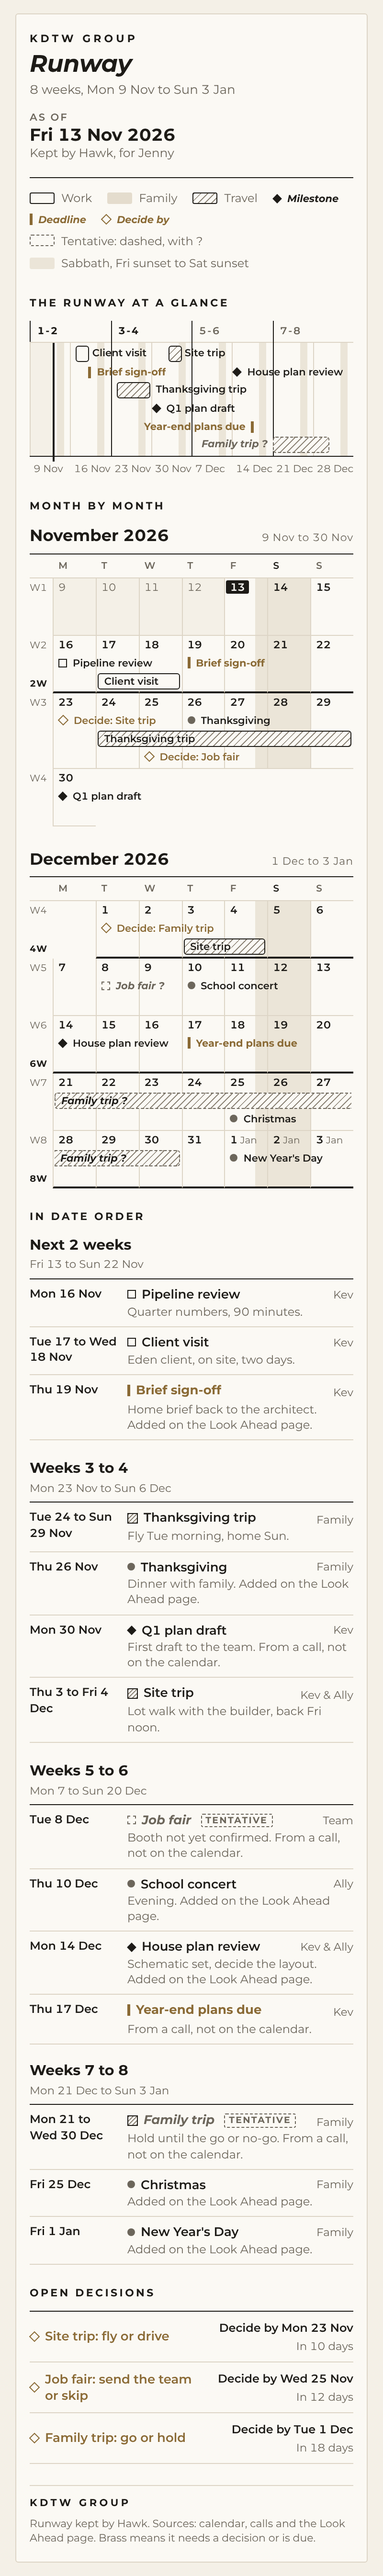
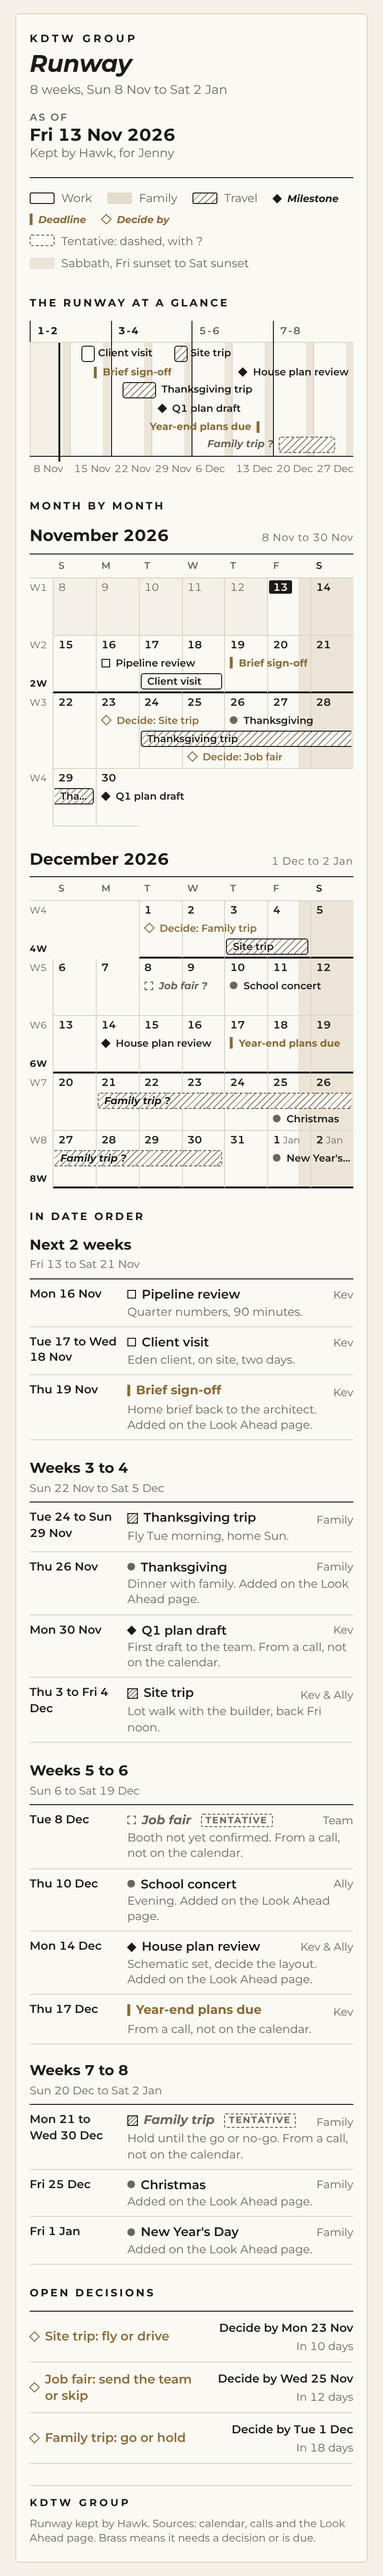
Runway block: weeks run Sunday to Saturday (startSunday)
Claude-Session: https://claude.ai/code/session_01UNAvYp5G2XyvdSerJe3A4p

diff --git a/projects/lookahead/runway-block/runway.html b/projects/lookahead/runway-block/runway.html
@@ -87,7 +87,7 @@ section > h2 { margin: 0 0 10px; font-size: 11px; font-weight: 700; letter-spaci
 .zone.later { color: var(--muted); font-weight: 600 }
 .track { position: relative; border-top: 1px solid var(--rule); border-bottom: 1px solid var(--ink) }
 .track .day { position: absolute; top: 0; bottom: 0 }
-.track .day.mon { border-left: 1px solid var(--rule) }
+.track .day.wk { border-left: 1px solid var(--rule) }
 .track .day.sab { background: var(--rest) }
 .track .day.fri { background: linear-gradient(90deg, transparent 72%, var(--rest) 72%) }
 .track .day.past { background: var(--bg) }
@@ -225,8 +225,8 @@ footer b { color: var(--ink); letter-spacing: .26em; font-size: 10.5px }
   "asOf": "2026-11-13",
   "owner": "Hawk, for Jenny",
   "weeks": 8,
-  "startMonday": "2026-11-09",
-  "horizons": { "w2": "2026-11-22", "w4": "2026-12-06", "w6": "2026-12-20" },
+  "startSunday": "2026-11-08",
+  "horizons": { "w2": "2026-11-21", "w4": "2026-12-05", "w6": "2026-12-19" },
   "events": [
     { "id": "pipeline-review", "title": "Pipeline review", "start": "2026-11-16", "kind": "work", "status": "confirmed", "who": "Kev", "note": "Quarter numbers, 90 minutes", "source": "calendar" },
     { "id": "client-visit", "title": "Client visit", "start": "2026-11-17", "end": "2026-11-18", "kind": "work", "status": "confirmed", "who": "Kev", "note": "Eden client, on site, two days", "source": "calendar" },
@@ -257,7 +257,7 @@ footer b { color: var(--ink); letter-spacing: .26em; font-size: 10.5px }
 (function () {
   "use strict";
   var DAY = 864e5;
-  var DOW = ["Mon", "Tue", "Wed", "Thu", "Fri", "Sat", "Sun"];
+  var DOW = ["Sun", "Mon", "Tue", "Wed", "Thu", "Fri", "Sat"];
   var MON = ["Jan", "Feb", "Mar", "Apr", "May", "Jun", "Jul", "Aug", "Sep", "Oct", "Nov", "Dec"];
   var MONTH = ["January", "February", "March", "April", "May", "June", "July", "August", "September", "October", "November", "December"];
   var KINDS = { work: 1, family: 1, travel: 1, milestone: 1, deadline: 1 };
@@ -265,7 +265,7 @@ footer b { color: var(--ink); letter-spacing: .26em; font-size: 10.5px }
 
   function dn(s) { var m = /^(\d{4})-(\d{2})-(\d{2})$/.exec(String(s || "").trim()); return m ? Date.UTC(+m[1], +m[2] - 1, +m[3]) / DAY : NaN; }
   function D(n) { return new Date(n * DAY); }
-  function wd(n) { return (D(n).getUTCDay() + 6) % 7; }
+  function wd(n) { return D(n).getUTCDay(); } // Sunday = 0: weeks run Sunday to Saturday
   function md(n) { return D(n).getUTCDate(); }
   function mo(n) { return D(n).getUTCMonth(); }
   function yr(n) { return D(n).getUTCFullYear(); }
@@ -285,7 +285,9 @@ footer b { color: var(--ink); letter-spacing: .26em; font-size: 10.5px }
 
   // ---- normalise ----
   var weeks = Math.min(8, Math.max(6, parseInt(data.weeks, 10) || 8));
-  var start = dn(data.startMonday);
+  // startSunday; startMonday is a legacy alias, used only if it happens to be a Sunday
+  var start = dn(data.startSunday);
+  if (isNaN(start)) { var legacy = dn(data.startMonday); if (!isNaN(legacy) && D(legacy).getUTCDay() === 0) start = legacy; }
   if (isNaN(start)) start = dn(data.asOf);
   start -= wd(start);
   var end = start + weeks * 7 - 1;
@@ -368,7 +370,7 @@ footer b { color: var(--ink); letter-spacing: .26em; font-size: 10.5px }
     var track = h("div", "track");
     var axis = h("div", "axis");
     for (var n = start; n <= end; n++) {
-      var c = h("div", "day" + (wd(n) === 0 ? " mon" : "") + (wd(n) === 4 ? " fri" : "") + (wd(n) === 5 ? " sab" : "") + (n < asOf ? " past" : ""));
+      var c = h("div", "day" + (wd(n) === 0 ? " wk" : "") + (wd(n) === 5 ? " fri" : "") + (wd(n) === 6 ? " sab" : "") + (n < asOf ? " past" : ""));
       c.style.left = pct(n); c.style.width = (100 / span) + "%"; track.appendChild(c);
       if (wd(n) === 0) { var a = h("span", null, md(n) + " " + MON[mo(n)]); a.style.left = pct(n); axis.appendChild(a); }
     }
@@ -437,7 +439,7 @@ footer b { color: var(--ink); letter-spacing: .26em; font-size: 10.5px }
       title.appendChild(h("small", null, fmt(b.lo).replace(/^\w+ /, "") + " to " + fmt(b.hi).replace(/^\w+ /, "")));
       m.appendChild(title);
       var hd = h("div", "mgrid"); hd.appendChild(h("div", "dow", ""));
-      ["M", "T", "W", "T", "F", "S", "S"].forEach(function (d, i) { hd.appendChild(h("div", "dow" + (i === 5 ? " rest" : ""), d)); });
+      ["S", "M", "T", "W", "T", "F", "S"].forEach(function (d, i) { hd.appendChild(h("div", "dow" + (i === 6 ? " rest" : ""), d)); });
       m.appendChild(hd);
       for (var r0 = b.lo - wd(b.lo); r0 <= b.hi; r0 += 7) {
         var row = h("div", "mrow");
@@ -460,7 +462,7 @@ footer b { color: var(--ink); letter-spacing: .26em; font-size: 10.5px }
         H.forEach(function (x, i) { if (x >= r0 && x <= r0 + 6 && x >= lo && x <= hi) hzHere = i; });
         for (var c = 0; c < 7; c++) {
           var n = r0 + c, shown = n >= lo && n <= hi;
-          var bg = h("div", "bg" + (shown ? "" : " void") + (shown && wd(n) === 4 ? " fri" : "") + (shown && wd(n) === 5 ? " sab" : "") + (shown && n < asOf ? " past" : ""));
+          var bg = h("div", "bg" + (shown ? "" : " void") + (shown && wd(n) === 5 ? " fri" : "") + (shown && wd(n) === 6 ? " sab" : "") + (shown && n < asOf ? " past" : ""));
           if (shown && hzHere >= 0) { var x = H[hzHere]; bg.classList.add(n <= x ? "hb" : "ht"); if (n === x && c < 6) bg.classList.add("hr"); }
           bg.style.gridColumn = (c + 2);
           row.appendChild(bg);

diff --git a/projects/lookahead/runway-block/design-direction.md b/projects/lookahead/runway-block/design-direction.md
@@ -17,19 +17,19 @@ title: Runway block, design direction
 
 ## The month block
 
-- **The grid.** Weeks run Monday to Sunday, to match `startMonday`. Rows show only the weeks on the runway, and the left gutter numbers them W1 to W8. A month with fewer than seven runway days folds into its neighbour, with the month named on the day (so "1 Jan" sits in December). Days already past sit on a darker cream. Today's date is set in a small ink box.
+- **The grid.** Weeks run Sunday to Saturday, to match the Look Ahead page (Kev, 13 Nov 2026), from `startSunday`. Rows show only the weeks on the runway, and the left gutter numbers them W1 to W8. A month with fewer than seven runway days folds into its neighbour, with the month named on the day (so "1 Jan" sits in December). Days already past sit on a darker cream. Today's date is set in a small ink box.
 - **Bars and marks.** Multi-day events are bars across their days, squared off where they run on into the next row. Single-day items are a small mark and a label, which runs into the empty days beside it, so names are not cut short.
 - **Milestones and deadlines.** A milestone is a solid ink diamond. A deadline is a short brass upright with brass text. A decide-by date is a hollow brass diamond.
 
 ## Horizons, kinds and status
 
-- **The three horizons.** A heavy ink line closes 2, 4 and 6 weeks (and the end of the runway). It steps where a horizon ends mid-week, and the gutter labels it 2W, 4W, 6W or 8W. On the strip the same lines split the four zones: Next 2 weeks, Weeks 3 to 4, 5 to 6, and 7 to 8.
+- **The three horizons.** A heavy ink line closes 2, 4 and 6 weeks (and the end of the runway), each on a Saturday, so it runs under the whole week row. If a horizon date ever lands mid-week the line steps there, and the gutter labels it 2W, 4W, 6W or 8W. On the strip the same lines split the four zones: Next 2 weeks, Weeks 3 to 4, 5 to 6, and 7 to 8.
 - **Kinds are told by shape and fill, never by colour.** Work is an ink outline, family is a warm stone fill, and travel is a fine hatch. Brass is the only accent, and it only ever means "due" or "decide".
 - **Status is told by line.** Confirmed items are solid and upright. Tentative items are dashed and italic, carry a "?" and get a TENTATIVE tag in the lists. Lists also show where an item came from when it is not on the calendar ("From a call").
 
 ## The Sabbath
 
-Saturday is a quiet stone column. Friday carries the same tint over its last quarter, for Friday sunset. There are no words in the grid; the legend explains it once. Hawk never sets a due date inside it.
+Saturday is the quiet stone column at the right edge of every week. Friday carries the same tint over its last quarter, for Friday sunset, so the rest closes each week. There are no words in the grid; the legend explains it once. Hawk never sets a due date inside it.
 
 ## Print and phone
 
@@ -41,12 +41,12 @@ Saturday is a quiet stone column. Friday carries the same tint over its last qua
 
 ## Hawk's weekly routine
 
-1. Write the week's JSON (schema in the brief: `asOf`, `owner`, `weeks`, `startMonday`, `events`, `horizons`, `openDecisions`).
-2. Run `node render-runway.mjs week.json week.png --pdf week.pdf --html week.html`. It warns on bad dates, sideways scroll or a second print page.
+1. Write the week's JSON (schema in the brief: `asOf`, `owner`, `weeks`, `startSunday`, `events`, `horizons`, `openDecisions`). Horizons are Saturdays. The old name `startMonday` still works if it is a Sunday; otherwise it is ignored and the runway starts on the Sunday on or before `asOf`.
+2. Run `node render-runway.mjs week.json week.png --pdf week.pdf --html week.html`. It warns on bad dates, a start that is not a Sunday, a horizon that is not a Saturday, sideways scroll or a second print page.
 3. Hand Jenny the PNG and the HTML. Family items stay on this sheet only, and no health details ever go on it.
 
 ## Assumptions
 
-- Monday-start weeks, per the schema, although the Look Ahead page runs Sunday to Saturday. Say the word and I switch it.
+- Sunday-start weeks, decided by Kev on 13 Nov 2026 to match the Look Ahead page.
 - The strip leaves out one-day work and family items, to keep the glance clean.
 - Montserrat is embedded from the repo's font files when rendering. In a browser without it, the page falls back to Helvetica Neue or Arial.
